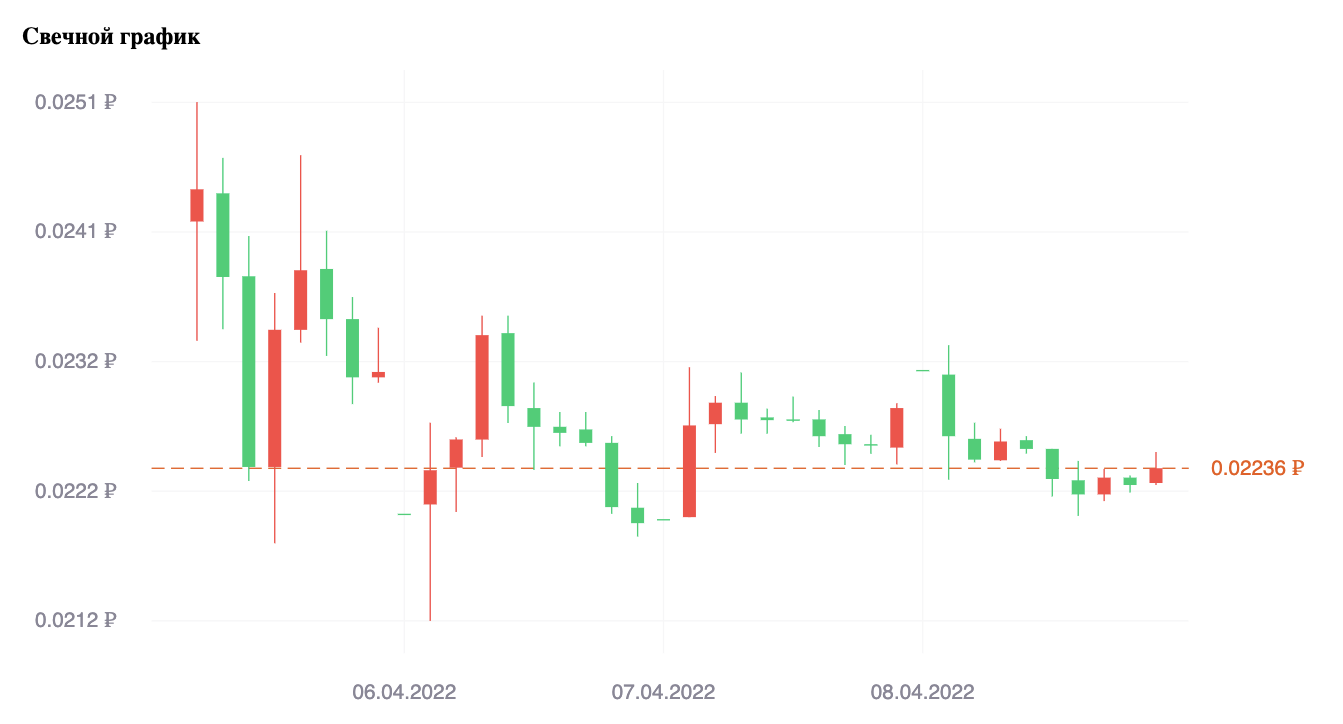
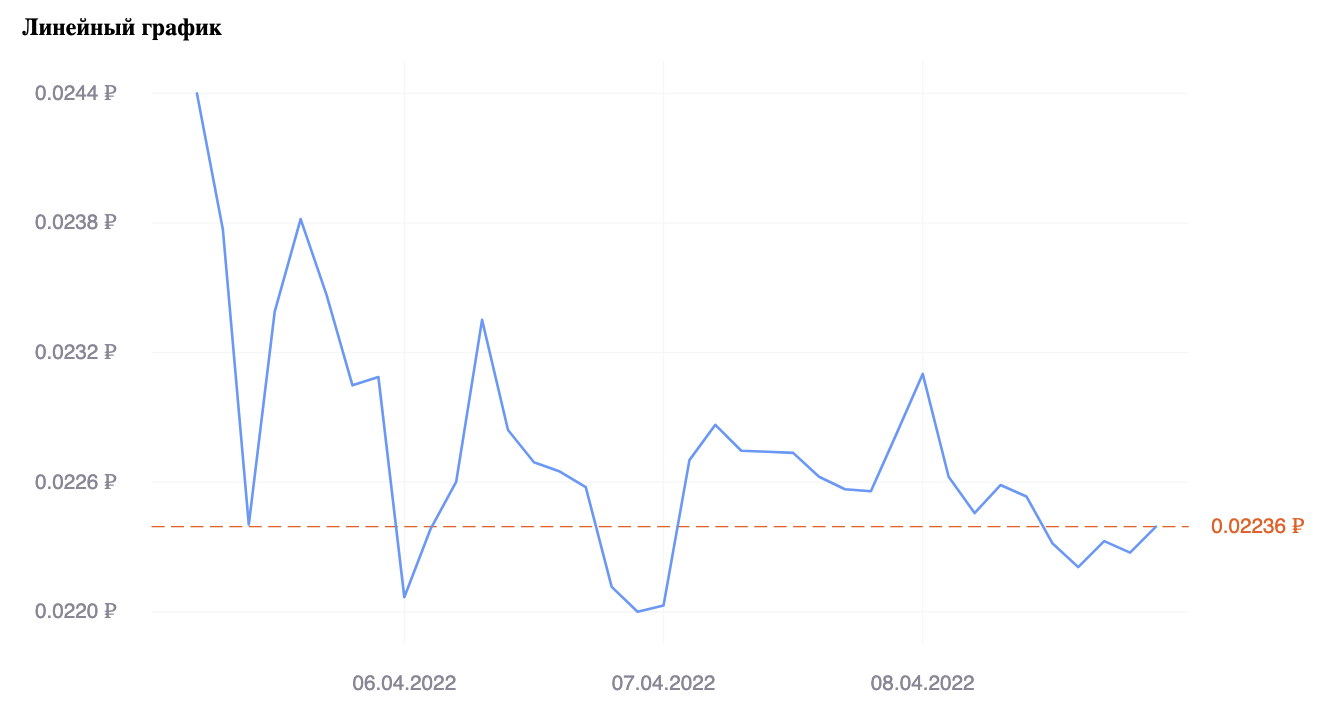
Линейный график

diff --git a/src/components/line-chart/LineChart.tsx b/src/components/line-chart/LineChart.tsx
@@ -1,0 +1,191 @@
+import React, { useCallback, useMemo, useRef, useState } from "react";
+import { interpolate } from "../../utils";
+import styles from "./LineChart.module.css";
+
+export interface ILineChartProps {
+    data: {
+        dateTime: string;
+        close: number;
+    }[];
+}
+
+export function LineChart(props: ILineChartProps) {
+    const ref = useRef<SVGSVGElement>();
+    const [isMoving, setMoving] = useState(false);
+    const [xClient, setXClient] = useState(0);
+    const [xOffset, setXOffset] = useState(0);
+
+    const { candlesticksWithX, xMin } = useMemo(() => {
+        const candlesticksWithX = [...props.data].reverse().map((i, index) => ({
+            ...i,
+            x: 875 - index * 20,
+        })).reverse();
+        return {
+            candlesticksWithX,
+            xMin: candlesticksWithX[0].x,
+        };
+    }, [props.data]);
+
+    const { candlesticksWithXOffset, valueMin, valueMax } = useMemo(() => {
+        const candlesticksWithXOffset = candlesticksWithX.map(i => ({
+            ...i,
+            x: i.x - xOffset,
+        }));
+        const values = candlesticksWithXOffset
+            .filter(i => i.x >= 125 && i.x <= 875)
+            .map(i => i.close);
+        return {
+            candlesticksWithXOffset,
+            valueMin: Math.min(...values),
+            valueMax: Math.max(...values),
+        };
+    }, [candlesticksWithX, xOffset]);
+
+    const yAxis = useMemo(() => {
+        const yAxis = [];
+        const { close } = candlesticksWithXOffset[candlesticksWithXOffset.length - 1];
+
+        if (close < valueMin) {
+            yAxis.push(<text key="yAxis-close" x="990" y="430" fill="#F26126" textAnchor="end">{close} &#8381;</text>);
+        } else if (close > valueMax) {
+            yAxis.push(<text key="yAxis-close" x="990" y="30" fill="#F26126" textAnchor="end">{close} &#8381;</text>);
+        } else {
+            const y = interpolate(close, [valueMin, valueMax], [425, 25]);
+            yAxis.push(
+                <React.Fragment key="yAxis-close">
+                    <line x1="100" y1={y} x2="900" y2={y} stroke="#F26126" strokeDasharray="10 5" />
+                    <text x="990" y={y + 5} fill="#F26126" textAnchor="end">{close} &#8381;</text>
+                </React.Fragment>
+            );
+        }
+
+        const interval = (valueMax - valueMin) / 4;
+
+        for (let i = 0; i < 5; i++) {
+            const value = (valueMax - i * interval).toFixed(4);
+            const y = i * 100 + 25;
+            yAxis.push(
+                <React.Fragment key={`yAxis-${value}`}>
+                    <line x1="100" y1={y} x2="900" y2={y} stroke="#F7F7F8" />
+                    <text x="10" y={y + 5} fill="#9393A1">{value} &#8381;</text>
+                </React.Fragment>
+            );
+        }
+
+        return yAxis;
+    }, [candlesticksWithXOffset, valueMin, valueMax]);
+
+    const { xAxis, line } = useMemo(() => {
+        const xAxis: JSX.Element[] = [];
+        const linePoints: string[] = [];
+        let datePrev = '';
+
+        candlesticksWithXOffset.forEach(i => {
+            const date = new Date(i.dateTime).toLocaleDateString();
+
+            if (datePrev !== date) {
+                datePrev = date;
+
+                if (i.x >= 125 && i.x <= 875) {
+                    xAxis.push(
+                        <React.Fragment key={`xAxis-${date}`}>
+                            <line x1={i.x} y1="0" x2={i.x} y2="450" stroke="#F7F7F8" />
+                            <text x={i.x} y="485" fill="#9393A1" textAnchor="middle">{date}</text>
+                        </React.Fragment>
+                    );
+                }
+            }
+
+            if (i.x >= 125 && i.x <= 875) {
+                const close = interpolate(i.close, [valueMin, valueMax], [425, 25]);
+                linePoints.push(`${i.x},${close}`);
+            }
+        });
+
+        return {
+            xAxis,
+            line: <polyline points={linePoints.join(' ')} fill="none" stroke="#5AA9F9" strokeWidth="2" strokeLinecap="round" strokeLinejoin="round" />,
+        };
+    }, [candlesticksWithXOffset]);
+
+    const tooltip = useMemo(() => {
+        if (!ref.current || isMoving || !xClient) {
+            return null;
+        }
+
+        const boundingClientRect = ref.current.getBoundingClientRect();
+        let x = (xClient - boundingClientRect.x) / boundingClientRect.width * 1000;
+        let candlestickHovering: any;
+        let intervalPrev = 1000;
+        candlesticksWithXOffset.forEach(i => {
+            const interval = Math.abs(i.x - x);
+
+            if (interval <= 10 && interval < intervalPrev) {
+                intervalPrev = interval;
+                candlestickHovering = i;
+            }
+        });
+
+        if (!candlestickHovering || (candlestickHovering.x < 125 || candlestickHovering.x > 875)) {
+            return null;
+        }
+
+        x = candlestickHovering.x >= 500 ? candlestickHovering.x - 320 : candlestickHovering.x + 20;
+        const dateTime = new Date(candlestickHovering.dateTime);
+        const close = interpolate(candlestickHovering.close, [valueMin, valueMax], [425, 25]);
+
+        return (
+            <>
+                <line x1={candlestickHovering.x} y1="0" x2={candlestickHovering.x} y2="450" stroke="#9393A1" />
+                <circle cx={candlestickHovering.x} cy={close} r="5" fill="#9393A1" />
+                <rect x={x} y="200" width={300} height="50" fill="#FFFFFF" stroke="#9393A1" />
+                <text x={x + 10} y="220" fill="#646478" fontWeight="bold">Закрытие</text>
+                <text x={x + 290} y="220" fill="#646478" textAnchor="end">{candlestickHovering.close} &#8381;</text>
+                <text x={x + 10} y="240" fill="#646478" fontWeight="bold">Дата</text>
+                <text x={x + 290} y="240" fill="#646478" textAnchor="end">{dateTime.toLocaleDateString()}, {dateTime.toLocaleTimeString()}</text>
+            </>
+        );
+    }, [isMoving, xClient, candlesticksWithXOffset]);
+
+    const start = useCallback((e: any) => {
+        setMoving(true);
+        setXClient(e.clientX ?? e.touches[0].clientX);
+    }, []);
+
+    const move = useCallback((e: any) => {
+        if (isMoving) {
+            setXOffset(xOffsetPrev => {
+                const xOffset = xOffsetPrev + xClient - (e.clientX ?? e.touches[0].clientX);
+                return xOffset <= xMin - 125
+                    ? xMin - 125
+                    : xOffset >= 0
+                        ? 0
+                        : xOffset;
+            });
+        }
+
+        setXClient(e.clientX ?? e.touches[0].clientX);
+    }, [xClient, xMin]);
+
+    const end = useCallback(() => setMoving(false), []);
+
+    return (
+        <svg
+            className={styles.lineChart}
+            viewBox="0 0 1000 500"
+            ref={ref as any}
+            onMouseDown={start}
+            onMouseMove={move}
+            onMouseUp={end}
+            onMouseLeave={end}
+            onTouchStart={start}
+            onTouchMove={move}
+            onTouchEnd={end}
+        >
+            {xAxis}
+            {yAxis}
+            {line}
+            {tooltip}
+        </svg>
+    );
+}

diff --git a/src/components/candlestick-chart/CandlestickChart.tsx b/src/components/candlestick-chart/CandlestickChart.tsx
@@ -1,8 +1,9 @@
 import React, { useCallback, useMemo, useRef, useState } from "react";
+import { interpolate } from "../../utils";
 import styles from "./CandlestickChart.module.css";
 
 export interface ICandlestickChartProps {
-    candlesticks: {
+    data: {
         dateTime: string;
         high: number;
         low: number;
@@ -19,7 +20,7 @@ export function CandlestickChart(props: ICandlestickChartProps) {
     const [xOffset, setXOffset] = useState(0);
 
     const { candlesticksWithX, xMin } = useMemo(() => {
-        const candlesticksWithX = [...props.candlesticks].reverse().map((i, index) => ({
+        const candlesticksWithX = [...props.data].reverse().map((i, index) => ({
             ...i,
             x: 875 - index * 20,
         })).reverse();
@@ -27,7 +28,7 @@ export function CandlestickChart(props: ICandlestickChartProps) {
             candlesticksWithX,
             xMin: candlesticksWithX[0].x,
         };
-    }, [props.candlesticks]);
+    }, [props.data]);
 
     const { candlesticksWithXOffset, valueMin, valueMax } = useMemo(() => {
         const candlesticksWithXOffset = candlesticksWithX.map(i => ({
@@ -207,8 +208,4 @@ export function CandlestickChart(props: ICandlestickChartProps) {
             {tooltip}
         </svg>
     );
-}
-
-function interpolate(value: number, inputRange: [number, number], outputRange: [number, number]) {
-    return outputRange[0] + (value - inputRange[0]) * (outputRange[1] - outputRange[0]) / (inputRange[1] - inputRange[0]);
 }

diff --git a/src/index.tsx b/src/index.tsx
@@ -1,10 +1,10 @@
 import React from 'react';
 import ReactDOM from 'react-dom';
 import './index.css';
-import { CandlestickChart, ICandlestickChartProps } from './components';
+import { CandlestickChart, ICandlestickChartProps, ILineChartProps, LineChart } from './components';
 import reportWebVitals from './reportWebVitals';
 
-const CANDLESTICKS = [
+const DATA = [
   [
     "2022-03-24T06:00:00Z",
     0.0181,
@@ -733,20 +733,29 @@ const CANDLESTICKS = [
     0.02236,
     4846960000
   ]
-].map(i => ({
+];
+
+const DATA_LINE = DATA.map(i => ({
+  dateTime: i[0],
+  close: i[4],
+})) as ILineChartProps['data'];
+
+const DATA_CANDLESTICKS = DATA.map(i => ({
   dateTime: i[0],
   open: i[1],
   high: i[2],
   low: i[3],
   close: i[4],
   volume: i[5],
-})) as ICandlestickChartProps['candlesticks'];
+})) as ICandlestickChartProps['data'];
 
 ReactDOM.render(
   <React.StrictMode>
     <div className="container">
+      <h2>Линейный график</h2>
+      <LineChart data={DATA_LINE} />
       <h2>Свечной график</h2>
-      <CandlestickChart candlesticks={CANDLESTICKS} />
+      <CandlestickChart data={DATA_CANDLESTICKS} />
     </div>
   </React.StrictMode>,
   document.getElementById('root')

diff --git a/src/utils/interpolate.ts b/src/utils/interpolate.ts
@@ -1,0 +1,3 @@
+export function interpolate(value: number, inputRange: [number, number], outputRange: [number, number]) {
+    return outputRange[0] + (value - inputRange[0]) * (outputRange[1] - outputRange[0]) / (inputRange[1] - inputRange[0]);
+}

diff --git a/src/components/index.ts b/src/components/index.ts
@@ -1,1 +1,2 @@
-export * from './candlestickChart/CandlestickChart';
+export * from './candlestick-chart/CandlestickChart';
+export * from './line-chart/LineChart';

diff --git a/src/components/line-chart/LineChart.module.css b/src/components/line-chart/LineChart.module.css
@@ -1,0 +1,7 @@
+.lineChart {
+  width: 100%;
+  object-fit: contain;
+  cursor: ew-resize;
+  user-select: none;
+  font-family: sans-serif;
+}

diff --git a/src/utils/index.ts b/src/utils/index.ts
@@ -1,0 +1,1 @@
+export * from './interpolate';

diff --git a/README.md b/README.md
@@ -1,13 +1,25 @@
 # Графики на SVG
 
-## Свечной график
+## Линейный график
 
 ![Рисунок 1](https://github.com/codeBurger770/react-svg-charts/raw/master/readme/1.png)
 
-Наведение на свечу в правой половине:
+Наведение на точку в правой половине:
 
 ![Рисунок 2](https://github.com/codeBurger770/react-svg-charts/raw/master/readme/2.png)
 
-Наведение на свечу в левой половине:
+Наведение на точку в левой половине:
 
 ![Рисунок 3](https://github.com/codeBurger770/react-svg-charts/raw/master/readme/3.png)
+
+## Свечной график
+
+![Рисунок 4](https://github.com/codeBurger770/react-svg-charts/raw/master/readme/4.png)
+
+Наведение на свечу в правой половине:
+
+![Рисунок 5](https://github.com/codeBurger770/react-svg-charts/raw/master/readme/5.png)
+
+Наведение на свечу в левой половине:
+
+![Рисунок 6](https://github.com/codeBurger770/react-svg-charts/raw/master/readme/6.png)
